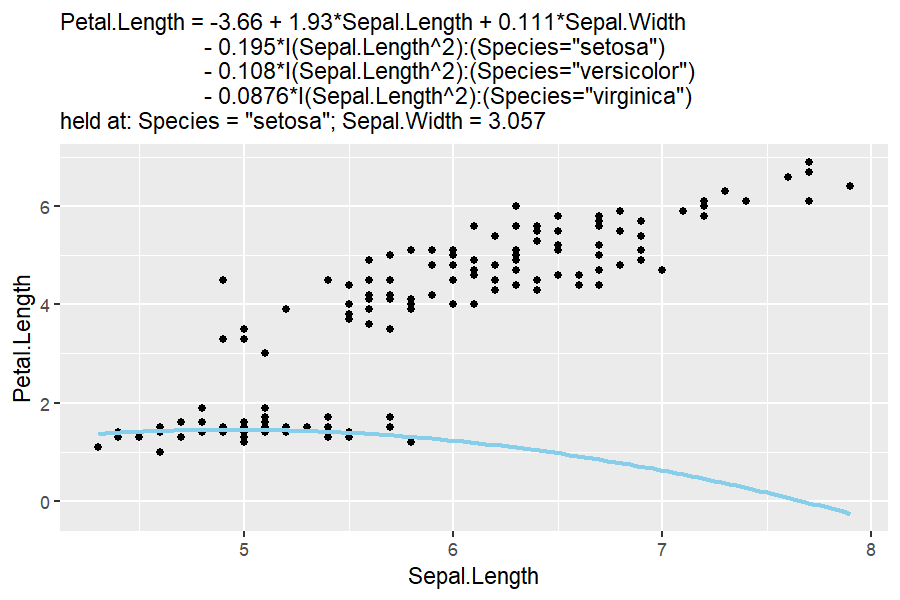
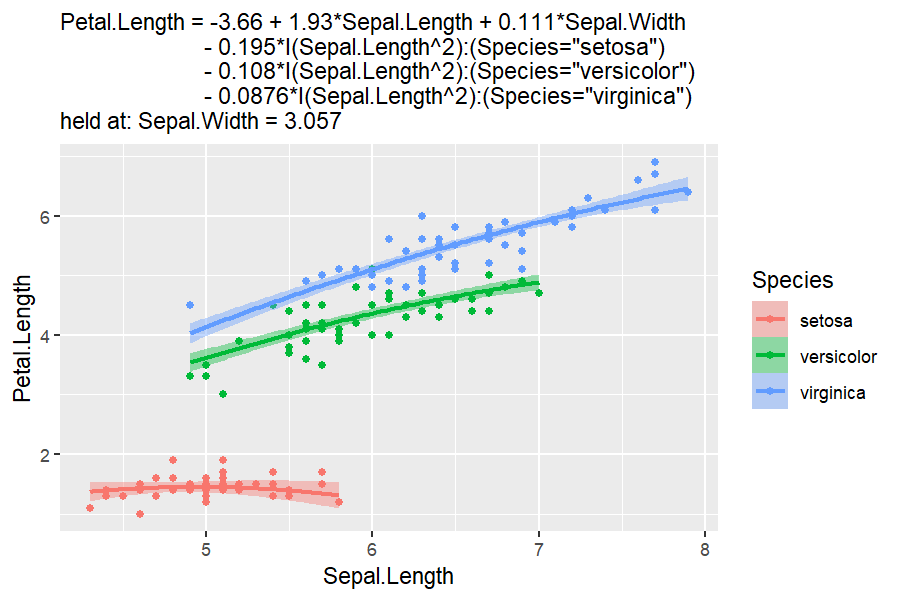
new padding re-render

diff --git a/README.md b/README.md
@@ -426,9 +426,9 @@ legend, facets, or `geom_slice_text()` are skipped:
 ``` r
 model <- lm(Petal.Length ~ Sepal.Length + I(Sepal.Length^2):Species + Sepal.Width, iris)
 
-ggplot(iris, aes(Sepal.Length, Petal.Length)) +
+ggplot(iris, aes(Sepal.Length, Petal.Length, color = Species)) +
   geom_point() +
-  geom_slice(model) +
+  geom_slice(model, interval = "confidence") +
   geom_slice_subtitle()   # or geom_slice_caption()
 ```
 
